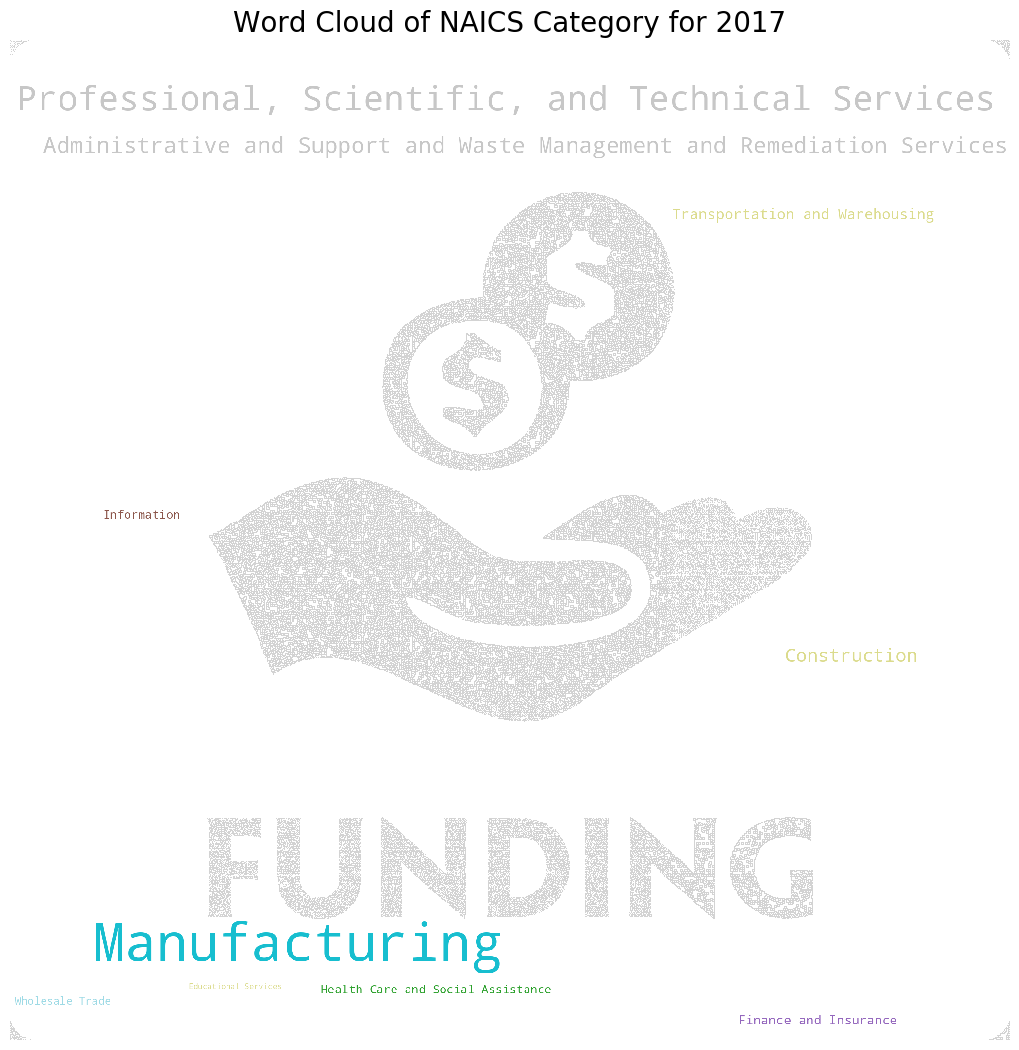
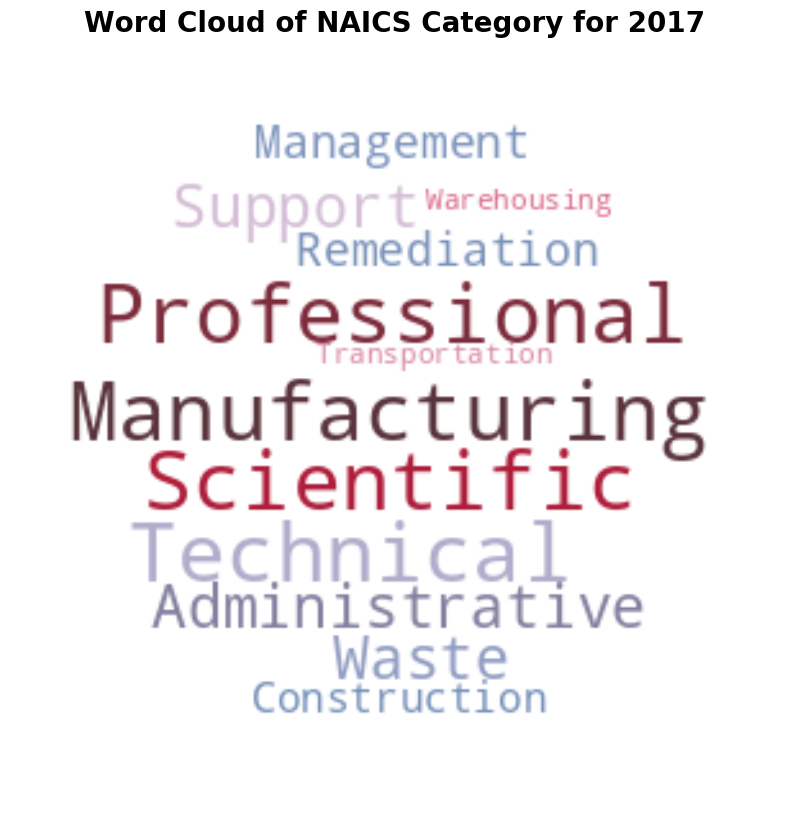
Updated word clouds pngs.

diff --git a/cappy_funding/visualization/word_cloud.py b/cappy_funding/visualization/word_cloud.py
@@ -2,7 +2,7 @@ import pandas as pd
 from wordcloud import WordCloud
 import matplotlib.pyplot as plt
 import numpy as np
-from PIL import Image
+import matplotlib.colors as mcolors
 
 def funding_word_clouds(filepath):
     """
@@ -10,41 +10,43 @@ def funding_word_clouds(filepath):
     federal funding by NAICS category.
     """
 
+    # load the data
     df = pd.read_csv(filepath + 'us_funding_time_series.csv')
 
-    # load the funding image
-    funding_mask = np.array(Image.open(filepath + "Funding2.png"))
+    # define a custom color map
+    meranti_colors = ['#FC766AFF', '#5B84B1FF', '#D8BFD8FF', '#DC143CFF', '#3C3C3CFF']
+    meranti_colors_rgb = [mcolors.hex2color(color) for color in meranti_colors]
+    meranti_cmap = mcolors.LinearSegmentedColormap.from_list('meranti', meranti_colors_rgb)
 
-    # loop through the years
+    # define a custom word cloud shape
+    x, y = np.ogrid[:300, :300]
+    mask = (x - 150) ** 2 + (y - 150) ** 2 > 130 ** 2
+    mask = 255 * mask.astype(int)
+
+    # iterate over the years and get the top 10 categories for each year
     for year in range(2016, 2021):
-        # create a dictionary that contains the NAICS category as the key and the funding percentage for the current year as the value
-        category_weight = {}
-        for _, row in df.iterrows():
-            category = row['NAICS Category']
-            weight = row[str(year)]
-            category_weight[category] = weight
+        # select rows where funding for the given year is not null
+        not_null_rows = df.loc[df[f"{year}"].notnull()]
 
-        # sort the dictionary by value in descending order and select the top 10 categories
-        top_categories = dict(sorted(category_weight.items(), key=lambda item: item[1], reverse=True)[:10])
+        # sort the not-null rows by funding percentage in descending order and select the top 5 categories
+        top_5_categories = not_null_rows.sort_values(by=f"{year}", ascending=False).head(5)
 
-        # create a word cloud object and generate the word cloud using the dictionary and the funding image as the mask
-        wordcloud = WordCloud(width = 800, height = 800, 
-                        background_color ='white', 
-                        min_font_size = 7,
-                        max_words = 50,
-                        mask = funding_mask, # use the funding image as the mask
-                        contour_width=1,
-                        contour_color='lightgrey',
-                        colormap='tab20',
-                        scale=2
-                    ).generate_from_frequencies(top_categories)
+        # extract the category names as a list, filter out any category containing "service", and join them with double quotes to ensure they stay as a whole
+        category_list = [f'"{name}"' for name in top_5_categories["NAICS Category"].tolist()]
 
-        # plot the word cloud using matplotlib
-        plt.figure(figsize = (10, 10), facecolor = None) 
-        plt.imshow(wordcloud, aspect='auto')
-        plt.axis("off") 
-        plt.tight_layout(pad = 0) 
-        plt.title(f"Word Cloud of NAICS Category for {year}", fontsize=20)
+        # combine the category names into a single string
+        text = ' '.join(category_list)
+        text = text.replace("Services", " ")
+
+        # create a word cloud object with custom color map and mask
+        wordcloud = WordCloud(background_color="white", colormap=meranti_cmap, mask=mask).generate(text)
+
+        # plot the word cloud
+        plt.figure(figsize=(8, 8))
+        plt.imshow(wordcloud, interpolation="bilinear")
+        plt.axis("off")
+        plt.title(f"Word Cloud of NAICS Category for {year}", fontsize=20, fontweight='bold')
+        plt.tight_layout(pad=0)
 
         # Save word clouds to file
         plt.savefig(f'data/clean_data/word_cloud_{year}.png', bbox_inches='tight')
